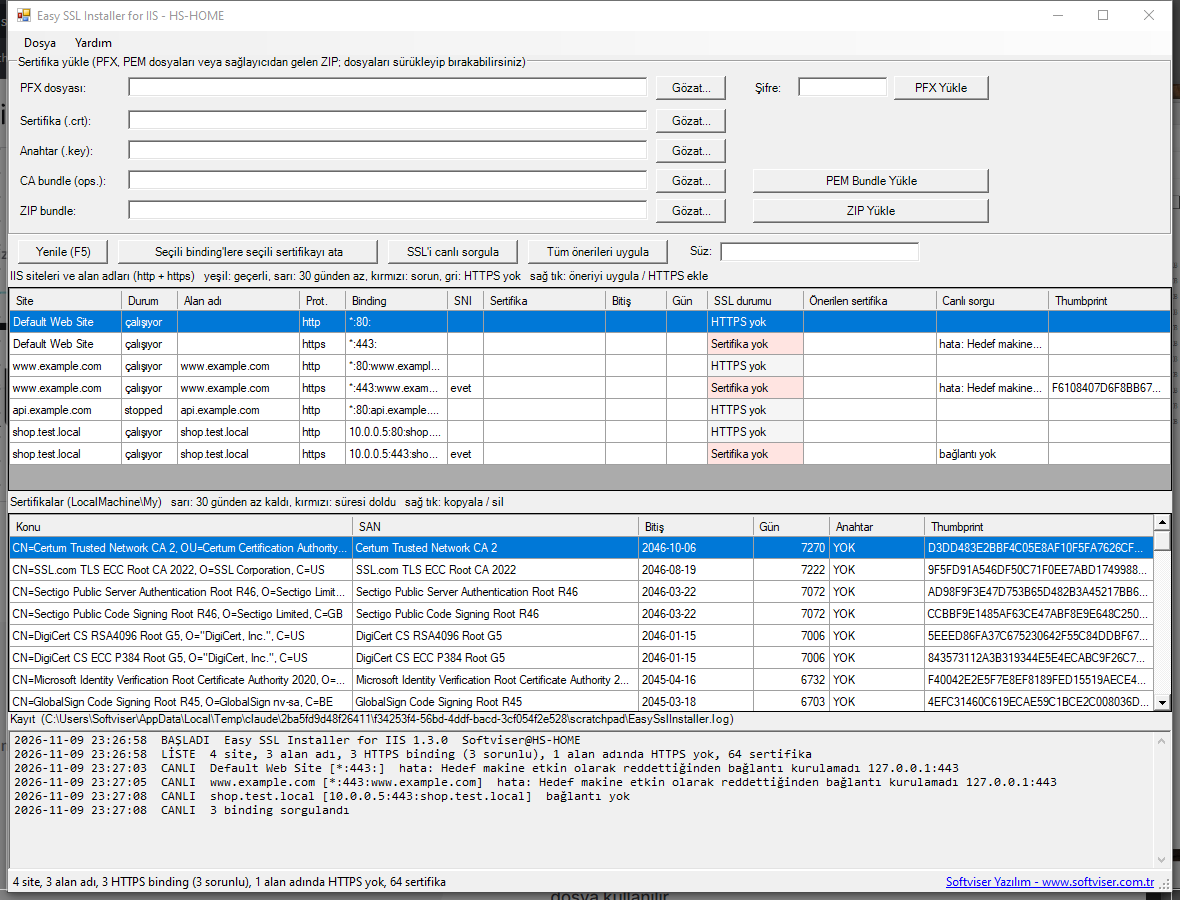
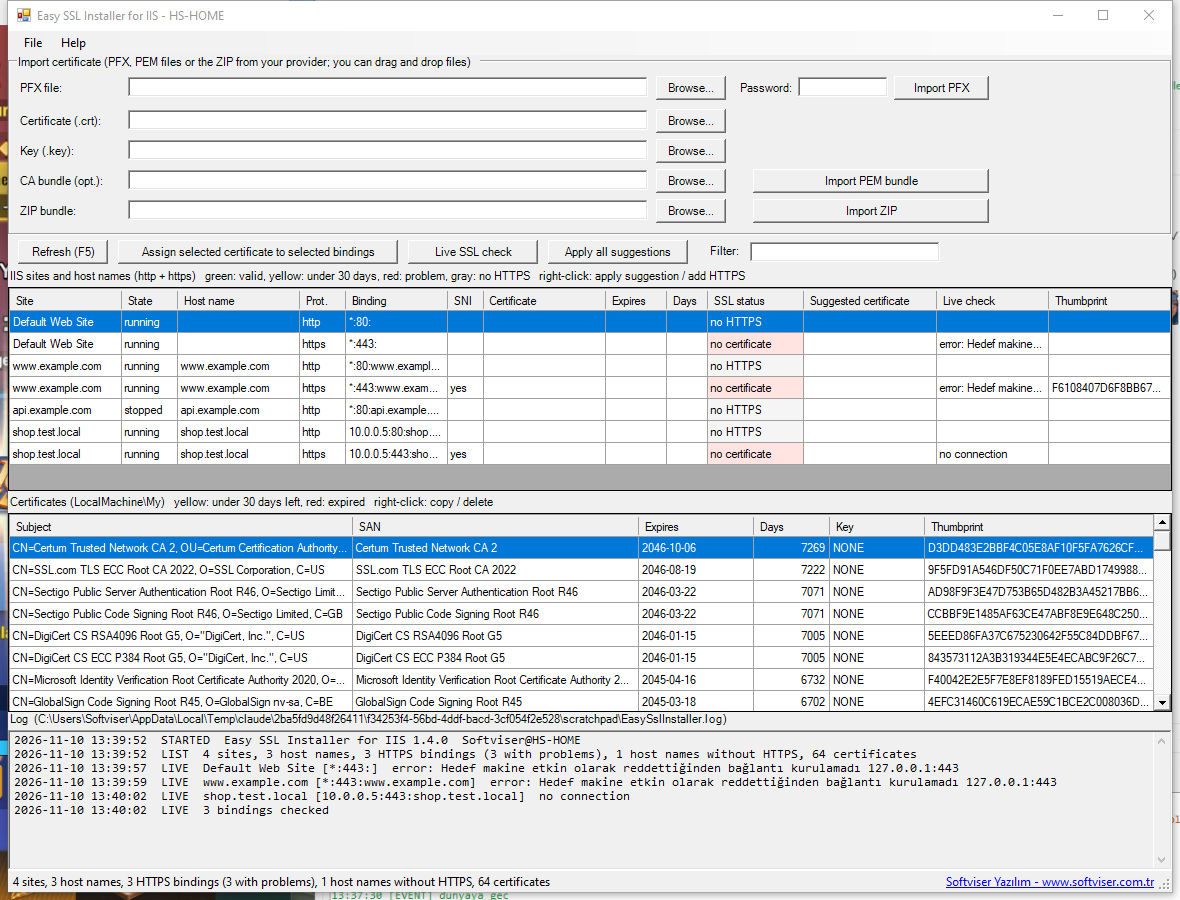
1.4.0: English UI by default, Turkish optional, language dialog at startup

diff --git a/Host.cs b/Host.cs
@@ -12,8 +12,8 @@ using System.Management.Automation.Runspaces;
 [assembly: AssemblyDescription("Install SSL certificates and update HTTPS bindings on IIS")]
 [assembly: AssemblyCompany("Softviser Yazılım")]
 [assembly: AssemblyCopyright("Copyright (c) 2026 Softviser Yazılım. MIT License.")]
-[assembly: AssemblyVersion("1.3.0.0")]
-[assembly: AssemblyFileVersion("1.3.0.0")]
+[assembly: AssemblyVersion("1.4.0.0")]
+[assembly: AssemblyFileVersion("1.4.0.0")]
 
 static class Program
 {

diff --git a/README.md b/README.md
@@ -8,6 +8,7 @@ self-contained `EasySslInstaller.exe`. Works on any Windows or Windows Server wi
 
 ## What it does
 
+- Asks for the language at startup: English (default, Enter) or Turkish.
 - Lists every IIS site with all its http and https bindings: site state, host name, bound certificate, expiry, days
   left and an SSL status per row: valid, N days left, expired, certificate missing, host name not covered by the
   certificate, or no HTTPS at all. The status bar sums it up (sites, host names, problem bindings, hosts without HTTPS)
@@ -70,6 +71,7 @@ IIS üzerine SSL sertifikası yükleyen, mevcut sertifikaları ve HTTPS binding'
 binding'leri yeni sertifikaya geçiren küçük bir araç. Kurulum yok; tek bir PowerShell betiği ve onu gömülü taşıyan
 `EasySslInstaller.exe`.
 
+- Açılışta dil sorulur: İngilizce (varsayılan) veya Türkçe.
 - PFX veya PEM bundle (crt + key + ca-bundle) yükler. PEM dönüşümü `certutil` ile yapılır, OpenSSL gerekmez.
 - Sağlayıcıdan gelen ZIP'i olduğu gibi yükler: içinde PFX varsa onu, yoksa sunucu sertifikası, anahtar ve CA
   dosyalarını içeriğinden tanıyarak alır. ZIP'te anahtar yoksa "Anahtar (.key)" alanındaki dosya kullanılır.
